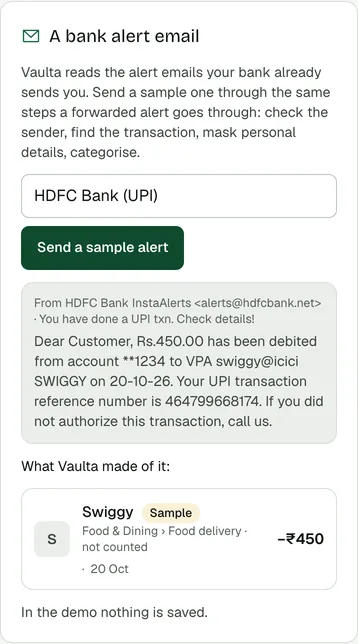
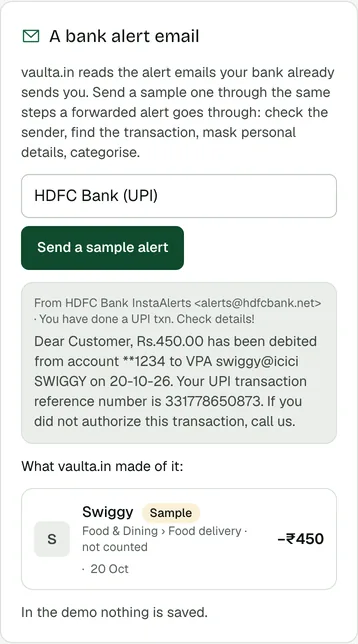
Landing v2: vaulta.in brand throughout, images recaptured from the rebranded build, CTA and focus tests

Changed region(s): [[0.0922, 0.5901, 0.8911, 0.6832], [0.0615, 0.0932, 0.9218, 0.1242], [0.1536, 0.7143, 0.5223, 0.7453]]

diff --git a/frontend/src/pages/landing/Landing.jsx b/frontend/src/pages/landing/Landing.jsx
@@ -58,7 +58,7 @@ function Hero({ ctas }) {
           Kahan gaye <span className="text-accent-text">paise?</span>
         </h1>
         <p className="mt-6 text-[clamp(1.125rem,4.4vw,1.4rem)] leading-snug text-ink-2 max-w-[30ch]">
-          Vaulta knows. Without your bank login, your SMS, or a single typed entry.
+          vaulta.in knows. Without your bank login, your SMS, or a single typed entry.
         </p>
         <div className="mt-8">{ctas}</div>
         <ul aria-label="At a glance" className="mt-8 flex flex-wrap gap-2">
@@ -72,7 +72,7 @@ function Hero({ ctas }) {
       <div className="relative">
         <div className="absolute inset-x-6 top-10 bottom-0 rounded-[3rem] bg-accent-tint blur-2xl" aria-hidden="true" />
         <div className="relative">
-          <Phone name="home" eager alt="Vaulta's home screen on a phone: safe to spend today ₹2,239, ₹26,863 left this month for 12 days, on pace for ₹45,012 and ₹24,988 under budget, with recent transactions starting at Swiggy." />
+          <Phone name="home" eager alt="vaulta.in's home screen on a phone: safe to spend today ₹2,239, ₹26,863 left this month for 12 days, on pace for ₹45,012 and ₹24,988 under budget, with recent transactions starting at Swiggy." />
         </div>
       </div>
     </section>
@@ -127,7 +127,7 @@ function StillStage() {
         </ul>
       </div>
       <div>
-        <p className="text-micro font-semibold uppercase tracking-wide text-muted">What reaches Vaulta</p>
+        <p className="text-micro font-semibold uppercase tracking-wide text-muted">What reaches vaulta.in</p>
         <ul className="mt-2 divide-y divide-line text-sm">
           {ROWS.map((r) => <li key={r.raw} className="flex gap-3 py-1.5"><span className="num text-muted w-12">{r.date}</span><span className="flex-1 text-ink truncate">{r.clean}</span><span className="num font-semibold">{r.flow === 'in' ? '+' : '−'}{formatINR(r.amount)}</span></li>)}
         </ul>
@@ -150,30 +150,30 @@ function Why({ reduce }) {
       <div className="max-w-6xl mx-auto px-4 sm:px-6 py-20 sm:py-28 grid gap-12 [&>*]:min-w-0 lg:grid-cols-[minmax(0,6fr)_minmax(0,5fr)] lg:gap-14">
         <div>
           <Reveal>
-            <p className="text-micro font-semibold uppercase tracking-[0.14em] text-accent-text">Why Vaulta</p>
+            <p className="text-micro font-semibold uppercase tracking-[0.14em] text-accent-text">Why vaulta.in</p>
             <h2 id="why" className="mt-3 font-display text-[clamp(2rem,5.5vw,3.25rem)] leading-[1.02] tracking-[-0.03em] text-ink">
               Many finance apps want everything. We want three columns.
             </h2>
           </Reveal>
           {/* phones: one card per row; wider screens: the table */}
-          <ul className="mt-10 grid gap-3 sm:hidden" aria-label="Many finance apps compared with Vaulta">
+          <ul className="mt-10 grid gap-3 sm:hidden" aria-label="Many finance apps compared with vaulta.in">
             {COMPARE.map(([what, them, us]) => (
               <li key={what} className="rounded-lg border border-line bg-canvas p-4">
                 <p className="font-semibold text-ink">{what}</p>
                 <dl className="mt-2 grid grid-cols-2 gap-3 text-sm">
                   <div><dt className="text-muted">Many finance apps</dt><dd className="text-ink-2">{them}</dd></div>
-                  <div><dt className="text-muted">Vaulta</dt><dd className="font-semibold text-accent-text">{us}</dd></div>
+                  <div><dt className="text-muted">vaulta.in</dt><dd className="font-semibold text-accent-text">{us}</dd></div>
                 </dl>
               </li>
             ))}
           </ul>
           <table className="mt-10 hidden sm:table w-full text-left text-[15px]">
-            <caption className="sr-only">Many finance apps compared with Vaulta</caption>
+            <caption className="sr-only">Many finance apps compared with vaulta.in</caption>
             <thead>
               <tr className="border-b border-line-strong text-sm text-muted">
                 <th scope="col" className="py-3 pr-4 font-medium"><span className="sr-only">What</span></th>
                 <th scope="col" className="py-3 pr-4 font-medium">Many finance apps</th>
-                <th scope="col" className="py-3 font-semibold text-accent-text">Vaulta</th>
+                <th scope="col" className="py-3 font-semibold text-accent-text">vaulta.in</th>
               </tr>
             </thead>
             <tbody className="divide-y divide-line">
@@ -186,7 +186,7 @@ function Why({ reduce }) {
               ))}
             </tbody>
           </table>
-          <p className="mt-6 text-sm text-muted">Every Vaulta line here is checked against the code. <Link to="/security" className="text-accent-text underline underline-offset-2">How each one works</Link>.</p>
+          <p className="mt-6 text-sm text-muted">Every vaulta.in line here is checked against the code. <Link to="/security" className="text-accent-text underline underline-offset-2">How each one works</Link>.</p>
         </div>
         <div className="lg:sticky lg:top-0 lg:h-[100dvh] flex flex-col justify-center">
           <p className="mb-3 text-sm font-medium text-ink-2">Your statement, as it leaves your phone:</p>

diff --git a/frontend/src/pages/landing/content.js b/frontend/src/pages/landing/content.js
@@ -15,12 +15,12 @@ export const PAIN = [
 
 export const STEPS = [
   { title: 'Drop your statement once.', body: 'Read on your phone. Never uploaded.', shot: 'cut-statement',
-    alt: "Vaulta's import preview: 12 transactions from HDFC Bank, balances check out, and the account number, name, IFSC and running balance struck out as removed on the device." },
+    alt: "vaulta.in's import preview: 12 transactions from HDFC Bank, balances check out, and the account number, name, IFSC and running balance struck out as removed on the device." },
   // softened: "within seconds" → forwarding plus a sleeping server can take a minute or two
-  { title: 'Forward your bank alerts.', body: 'Every spend lands in Vaulta on its own, a minute or two after your bank emails you.', shot: 'cut-alert',
-    alt: 'A sample HDFC Bank UPI alert email and what Vaulta made of it: Swiggy, Food & Dining, ₹450.' },
+  { title: 'Forward your bank alerts.', body: 'Every spend lands in vaulta.in on its own, a minute or two after your bank emails you.', shot: 'cut-alert',
+    alt: 'A sample HDFC Bank UPI alert email and what vaulta.in made of it: Swiggy, Food & Dining, ₹450.' },
   { title: 'Just ask.', body: '“How much on food this month?” Real numbers, computed from your transactions, not guessed.', shot: 'chat',
-    alt: 'Vaulta chat answering "How much did I spend on food this month?" with ₹6,739: ₹4,069 on Food & Dining plus ₹2,670 on Groceries.' },
+    alt: 'vaulta.in chat answering "How much did I spend on food this month?" with ₹6,739: ₹4,069 on Food & Dining plus ₹2,670 on Groceries.' },
 ]
 
 // softened: the other column says "Often…": a general claim about the market, never about one company
@@ -42,17 +42,17 @@ export const TILES = [
   { icon: 'ai', title: 'AI sees totals, not your statement.', body: 'No bank narrations, no UPI IDs, no account details.', claim: 'ai' },
   { icon: 'leave', title: 'Leave anytime.', body: 'Export or delete everything, anytime.', claim: 'your-data' },
   // softened: "Fully open source" → public code, no licence yet
-  { icon: 'code', title: "Don't trust us. Read the code.", body: 'Every line that runs Vaulta is public on GitHub.', href: REPO_URL },
+  { icon: 'code', title: "Don't trust us. Read the code.", body: 'Every line that runs vaulta.in is public on GitHub.', href: REPO_URL },
 ]
 
 export const FEATURES = [
   { title: 'Know before you order.', body: 'Safe to spend today, so the Swiggy decision takes a second.', shot: 'cut-safe', inset: true,
-    alt: 'Vaulta home: safe to spend today ₹2,239, with ₹26,863 left this month for 12 days.' },
+    alt: 'vaulta.in home: safe to spend today ₹2,239, with ₹26,863 left this month for 12 days.' },
   { title: "Bills don't surprise you.", body: 'Rent, EMIs and subscriptions spotted automatically, and price rises flagged.', shot: 'cut-recurring',
     alt: 'Recurring payments: rent ₹25,000 every month, and Netflix ₹649 every month, flagged "Price up: ₹499 → ₹649".' },
   // softened: "Alerts the moment something needs you" → alerts go out as transactions arrive and from the hourly run
   { title: 'Your money, explained weekly.', body: 'A one-minute summary in your inbox, and an alert when something needs a look.', shot: 'email',
-    alt: "Vaulta's weekly report email: spent ₹2,699, top categories Groceries, Food & Dining and Transport." },
+    alt: "vaulta.in's weekly report email: spent ₹2,699, top categories Groceries, Food & Dining and Transport." },
 ]
 
 // The banks the importers know (frontend/src/import: banks.js, creditCard.js, upi.js) and the alert senders the API
@@ -73,11 +73,11 @@ export const FAQ = [
     `Bank statements (CSV, Excel or PDF) from ${list(STATEMENT_BANKS)}, read automatically.`,
     `Credit card statements (PDF) from ${list(CARD_ISSUERS.map((c) => c.replace(' Credit Card', '')))}.`,
     `Statements from ${list(UPI_APPS)}.`,
-    "Any other bank's CSV, Excel or PDF works too: you match its columns once, and Vaulta remembers. Photos of statements are read on your device.",
+    "Any other bank's CSV, Excel or PDF works too: you match its columns once, and vaulta.in remembers. Photos of statements are read on your device.",
     // softened: "Alert emails work with most Indian banks" → these are the senders accepted; wording varies by bank
-    `Forwarded alert emails are accepted from ${list(ALERT_SENDERS)}. Banks word their alerts differently, so any Vaulta can't read lands in your review queue.`,
+    `Forwarded alert emails are accepted from ${list(ALERT_SENDERS)}. Banks word their alerts differently, so any vaulta.in can't read lands in your review queue.`,
   ] },
   { q: 'Can you see my bank account?', a: ['No. No bank login, no SMS, no account numbers.'] },
-  { q: 'What if Vaulta shuts down?', a: ["Export everything anytime. We'll email you in advance whenever possible."] },
+  { q: 'What if vaulta.in shuts down?', a: ["Export everything anytime. We'll email you in advance whenever possible."] },
   { q: 'Who built this?', a: ["Built by Kanveer Madan, an AI/ML student in Delhi who got tired of asking “kahan gaye paise?” every month."], links: true },
 ]

diff --git a/frontend/e2e/public.spec.js b/frontend/e2e/public.spec.js
@@ -98,7 +98,11 @@ test('sign in with Google is the big, filled action, in the hero and at the end;
     const bg = await primary.nth(i).evaluate((e) => getComputedStyle(e).backgroundColor)
     expect(bg).not.toMatch(/rgba\(0, 0, 0, 0\)|transparent/)                       // filled
   }
-  for (const el of [primary.first(), demo.first()]) { await el.focus(); await expect(el).toBeFocused() }   // keyboard-focusable buttons
+  await page.goto('/welcome')                                                      // fresh page, then: keyboard-focusable buttons
+  for (const [el, kind] of [[primary.first(), 'primary'], [demo.first(), 'demo']]) {
+    await el.focus()   // the page's active element (toBeFocused also needs the window focused, which parallel runs don't give)
+    expect(await page.evaluate(() => document.activeElement?.dataset?.cta)).toBe(kind)
+  }
 })
 
 test('privacy policy and security.txt', async ({ page, request }, testInfo) => {
@@ -185,7 +189,7 @@ test('reduced motion: the statement story is still, and the animation code never
   await page.goto('/welcome')
   const why = page.getByRole('region', { name: 'Many finance apps want everything. We want three columns.' })
   await why.scrollIntoViewIfNeeded()
-  await expect(why.getByText('What reaches Vaulta')).toBeVisible()
+  await expect(why.getByText('What reaches vaulta.in')).toBeVisible()
   await page.evaluate(() => window.scrollTo(0, document.body.scrollHeight))
   await page.waitForTimeout(500)
   expect(scripts.filter((u) => /WhyStage|StatementStage/.test(u))).toEqual([])
